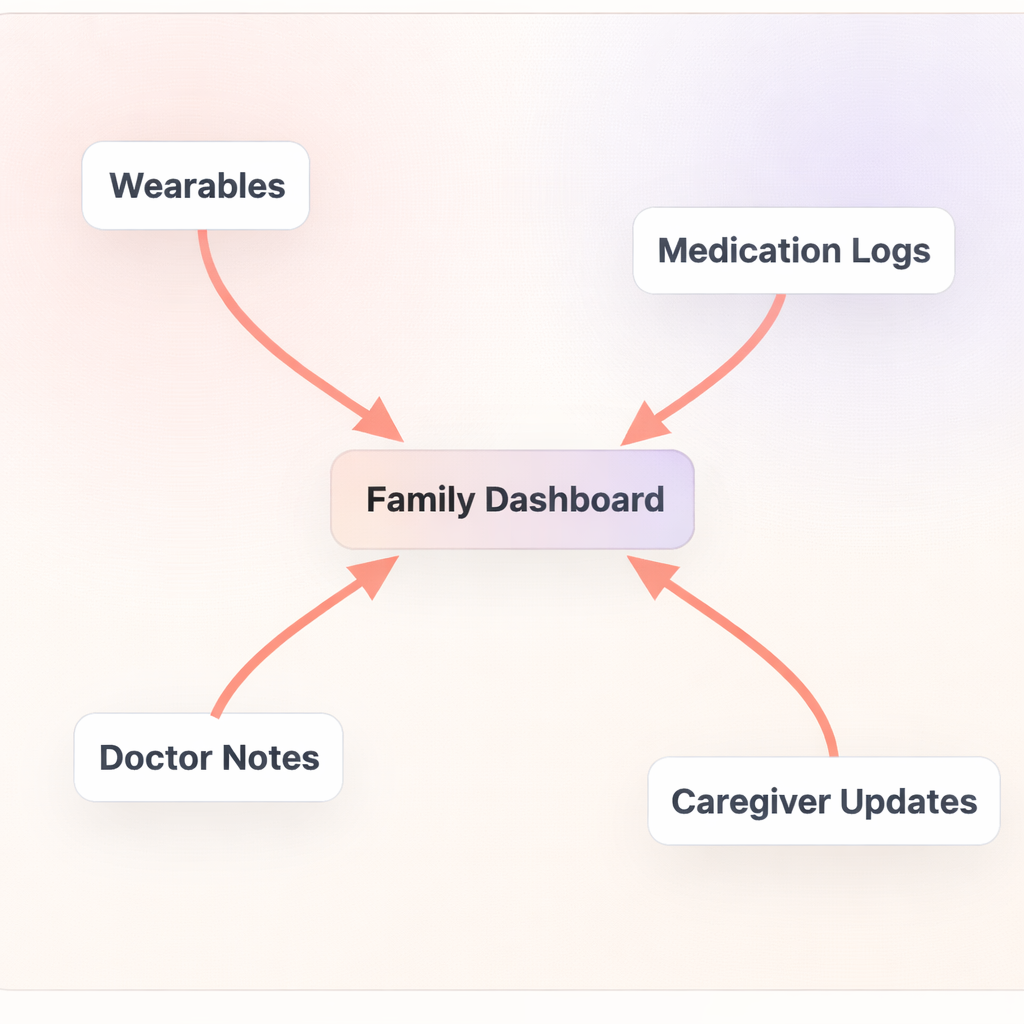
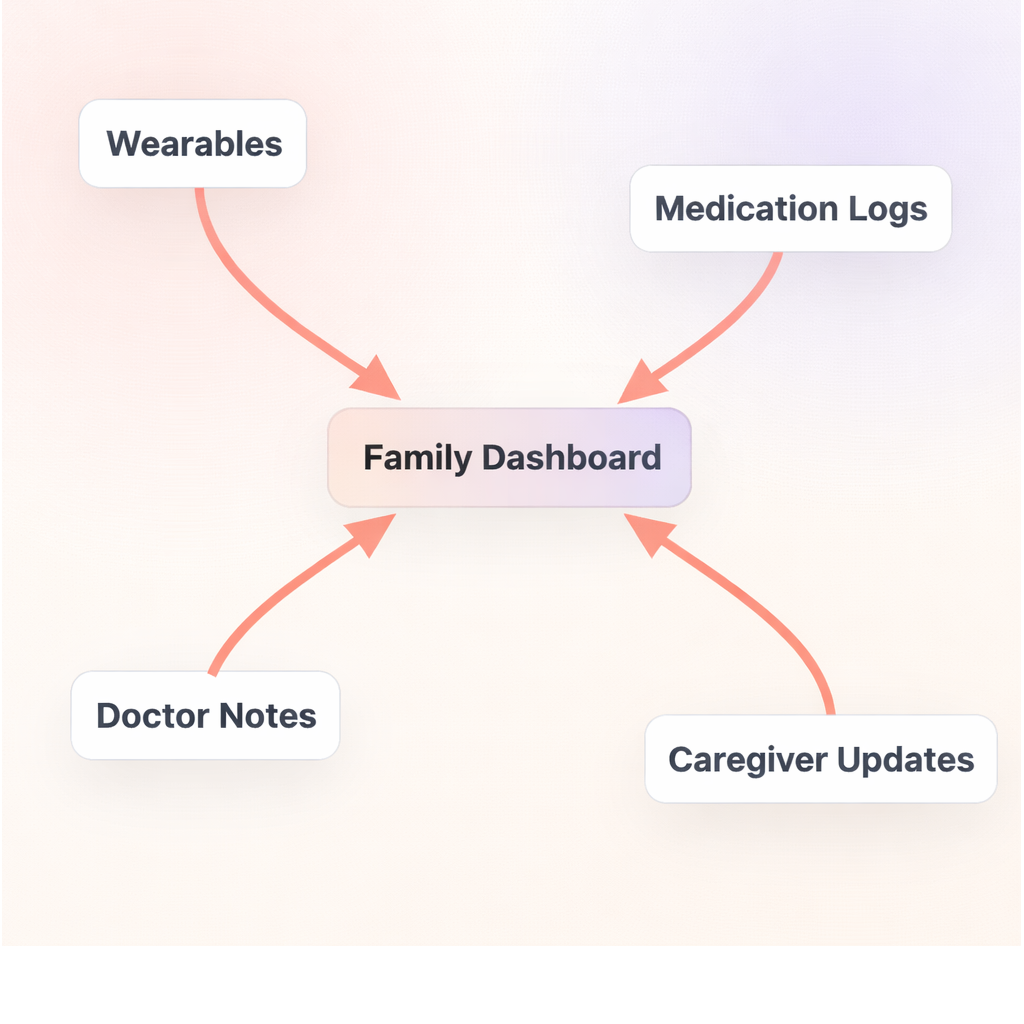
use corrected effortless logging image and remove crop styling

Changed region(s): [[0.0625, 0.0938, 0.9688, 0.8125]]

diff --git a/styles.css b/styles.css
@@ -297,7 +297,7 @@ main {
 
 .story-visual {
   position: relative;
-  min-height: 430px;
+  min-height: 0;
   border-radius: 22px;
   background:
     radial-gradient(circle at 20% 18%, rgb(255 122 106 / 0.2) 0%, transparent 36%),
@@ -306,17 +306,15 @@ main {
   border: 1px solid var(--line);
   overflow: hidden;
   display: grid;
-  place-items: center;
+  place-items: stretch;
   box-shadow: inset 0 0 0 1px rgb(255 255 255 / 0.4), 0 12px 24px rgb(23 28 38 / 0.06);
 }
 
 .story-map-image {
-  width: 105%;
-  height: calc(100% + 68px);
-  object-fit: cover;
-  object-position: center center;
+  width: 100%;
+  height: auto;
   display: block;
-  transform: translateY(-34px) scale(1.02);
+  transform: none;
 }
 
 .story-copy p {
